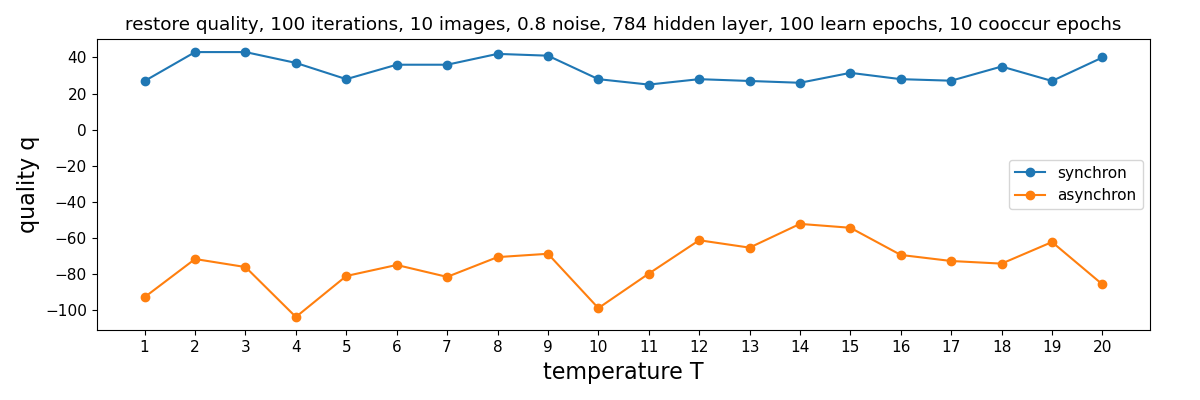
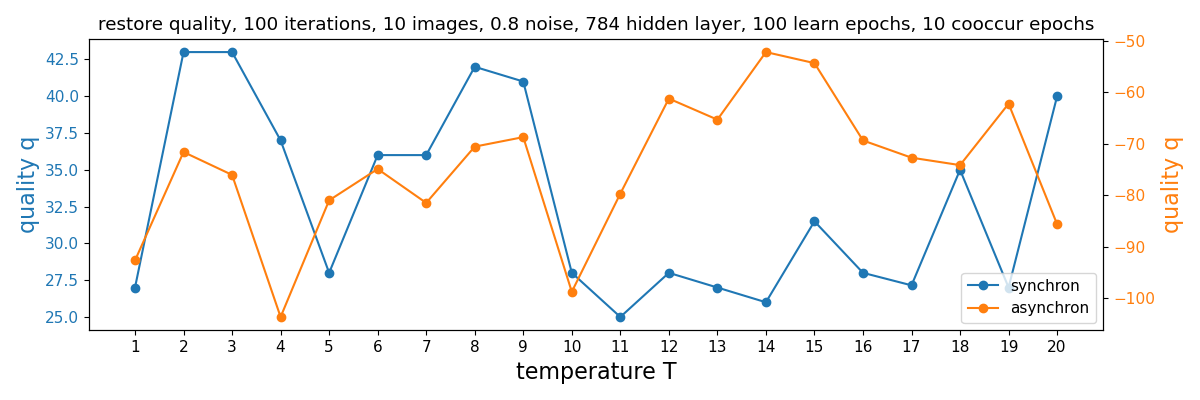
separate y-axes for temperature plot

diff --git a/mnist_restore_test.py b/mnist_restore_test.py
@@ -166,7 +166,31 @@ def plt_quality(title, xlabel, x, qualities, save_path, xticks=None, legend=None
         plt.xticks(xticks)
     plt.ylabel('quality q', fontsize=16)
     if not legend is None:
-        plt.legend(legend)
+        plt.legend(legend, loc='lower right')
+    plt.tight_layout()
+    plt.savefig(save_path + title.replace(',', '').replace(' ', '_') + '.png')
+    # plt.close()
+
+
+def plt_quality_sep_y(title, xlabel, x, qualities, save_path, xticks=None, legend=None):
+    fig = plt.figure(title.replace(',', ''), figsize=(12, 4))
+    ax1 = fig.add_subplot(111)
+    axi = None
+    for i, quality in enumerate(qualities):
+        if axi is None:
+            axi = ax1
+            plts = axi.plot(x, quality, 'o-', color=f'C{i}')
+        else:
+            axi = ax1.twinx()
+            plts = plts + axi.plot(x, quality, 'o-', color=f'C{i}')
+        axi.set_ylabel('quality q', fontsize=16, color=f'C{i}')
+        axi.tick_params(axis='y', labelcolor=f'C{i}')
+    plt.title(title)
+    ax1.set_xlabel(xlabel, fontsize=16)
+    if not xticks is None:
+        ax1.set_xticks(xticks)
+    if not legend is None:
+        ax1.legend(plts, legend, loc='lower right')
     plt.tight_layout()
     plt.savefig(save_path + title.replace(',', '').replace(' ', '_') + '.png')
     # plt.close()
@@ -216,18 +240,27 @@ def mnist_restore_test():
     quality_sync = []
     quality_async = []
     temps = np.arange(1, 21, 1)
+    scan = True # set to False if all data already exists and to just regenerate plot
     for T in temps:
         annealing = [(float(T), 100)]
         coocurance = (annealing[-1][0], 10)
         iterationslist = np.arange(10, iterations + 1, 10)
-        # just generate the intermediate plots and keep the final iterations
-        for i in iterationslist:
-            print(f'T = {T}, iterations = {i}')
-            hidden_layers, q = test_restore345(images, labels, i, num_images, annealing, coocurance, True, noise_probability, save_path)
+        if scan:
+            # just generate the intermediate plots and keep the final iterations
+            for i in iterationslist:
+                print(f'T = {T}, iterations = {i}')
+                hidden_layers, q = test_restore345(images, labels, i, num_images, annealing, coocurance, True, noise_probability, save_path)
+        else:
+            print(f'T = {T}, iterations = {iterations}')
+            hidden_layers, q = test_restore345(images, labels, iterations, num_images, annealing, coocurance, True, noise_probability, save_path)
         quality_sync.append(q)
-        for i in iterationslist:
-            print(f'T = {T}, iterations = {i}')
-            hidden_layers, q = test_restore345(images, labels, i, num_images, annealing, coocurance, False, noise_probability, save_path)
+        if scan:
+            for i in iterationslist:
+                print(f'T = {T}, iterations = {i}')
+                hidden_layers, q = test_restore345(images, labels, i, num_images, annealing, coocurance, False, noise_probability, save_path)
+        else:
+            print(f'T = {T}, iterations = {iterations}')
+            hidden_layers, q = test_restore345(images, labels, iterations, num_images, annealing, coocurance, False, noise_probability, save_path)
         quality_async.append(q)
     learn_epochs = np.sum(np.array(annealing, dtype=np.int), axis=0)[1]
     cooccur_epochs = coocurance[1]
@@ -235,7 +268,7 @@ def mnist_restore_test():
     title = f'restore quality, {iterations} iterations, {num_images} images, {noise_probability} noise, {hidden_layers} hidden layer, {learn_epochs} learn epochs, {cooccur_epochs} cooccur epochs'
     plt_quality(title + ', sync', 'temperature T', temps, [quality_sync], save_path, xticks=temps)
     plt_quality(title + ', async', 'temperature T', temps, [quality_async], save_path, xticks=temps)
-    plt_quality(title, 'temperature T', temps, [quality_sync, quality_async], save_path, xticks=temps, legend=['synchron', 'asynchron'])
+    plt_quality_sep_y(title, 'temperature T', temps, [quality_sync, quality_async], save_path, xticks=temps, legend=['synchron', 'asynchron'])
 
     # plt.show()
 

diff --git a/oliver/mnist_restore_test.py b/oliver/mnist_restore_test.py
@@ -166,7 +166,31 @@ def plt_quality(title, xlabel, x, qualities, save_path, xticks=None, legend=None
         plt.xticks(xticks)
     plt.ylabel('quality q', fontsize=16)
     if not legend is None:
-        plt.legend(legend)
+        plt.legend(legend, loc='lower right')
+    plt.tight_layout()
+    plt.savefig(save_path + title.replace(',', '').replace(' ', '_') + '.png')
+    # plt.close()
+
+
+def plt_quality_sep_y(title, xlabel, x, qualities, save_path, xticks=None, legend=None):
+    fig = plt.figure(title.replace(',', ''), figsize=(12, 4))
+    ax1 = fig.add_subplot(111)
+    axi = None
+    for i, quality in enumerate(qualities):
+        if axi is None:
+            axi = ax1
+            plts = axi.plot(x, quality, 'o-', color=f'C{i}')
+        else:
+            axi = ax1.twinx()
+            plts = plts + axi.plot(x, quality, 'o-', color=f'C{i}')
+        axi.set_ylabel('quality q', fontsize=16, color=f'C{i}')
+        axi.tick_params(axis='y', labelcolor=f'C{i}')
+    plt.title(title)
+    ax1.set_xlabel(xlabel, fontsize=16)
+    if not xticks is None:
+        ax1.set_xticks(xticks)
+    if not legend is None:
+        ax1.legend(plts, legend, loc='lower right')
     plt.tight_layout()
     plt.savefig(save_path + title.replace(',', '').replace(' ', '_') + '.png')
     # plt.close()
@@ -216,18 +240,27 @@ def mnist_restore_test():
     quality_sync = []
     quality_async = []
     temps = np.arange(1, 21, 1)
+    scan = True # set to False if all data already exists and to just regenerate plot
     for T in temps:
         annealing = [(float(T), 100)]
         coocurance = (annealing[-1][0], 10)
         iterationslist = np.arange(10, iterations + 1, 10)
-        # just generate the intermediate plots and keep the final iterations
-        for i in iterationslist:
-            print(f'T = {T}, iterations = {i}')
-            hidden_layers, q = test_restore345(images, labels, i, num_images, annealing, coocurance, True, noise_probability, save_path)
+        if scan:
+            # just generate the intermediate plots and keep the final iterations
+            for i in iterationslist:
+                print(f'T = {T}, iterations = {i}')
+                hidden_layers, q = test_restore345(images, labels, i, num_images, annealing, coocurance, True, noise_probability, save_path)
+        else:
+            print(f'T = {T}, iterations = {iterations}')
+            hidden_layers, q = test_restore345(images, labels, iterations, num_images, annealing, coocurance, True, noise_probability, save_path)
         quality_sync.append(q)
-        for i in iterationslist:
-            print(f'T = {T}, iterations = {i}')
-            hidden_layers, q = test_restore345(images, labels, i, num_images, annealing, coocurance, False, noise_probability, save_path)
+        if scan:
+            for i in iterationslist:
+                print(f'T = {T}, iterations = {i}')
+                hidden_layers, q = test_restore345(images, labels, i, num_images, annealing, coocurance, False, noise_probability, save_path)
+        else:
+            print(f'T = {T}, iterations = {iterations}')
+            hidden_layers, q = test_restore345(images, labels, iterations, num_images, annealing, coocurance, False, noise_probability, save_path)
         quality_async.append(q)
     learn_epochs = np.sum(np.array(annealing, dtype=np.int), axis=0)[1]
     cooccur_epochs = coocurance[1]
@@ -235,7 +268,7 @@ def mnist_restore_test():
     title = f'restore quality, {iterations} iterations, {num_images} images, {noise_probability} noise, {hidden_layers} hidden layer, {learn_epochs} learn epochs, {cooccur_epochs} cooccur epochs'
     plt_quality(title + ', sync', 'temperature T', temps, [quality_sync], save_path, xticks=temps)
     plt_quality(title + ', async', 'temperature T', temps, [quality_async], save_path, xticks=temps)
-    plt_quality(title, 'temperature T', temps, [quality_sync, quality_async], save_path, xticks=temps, legend=['synchron', 'asynchron'])
+    plt_quality_sep_y(title, 'temperature T', temps, [quality_sync, quality_async], save_path, xticks=temps, legend=['synchron', 'asynchron'])
 
     # plt.show()
 

diff --git a/paper/boltzmann_machine_paper.tex b/paper/boltzmann_machine_paper.tex
@@ -583,10 +583,10 @@ Having seen a good result from the experiment with 10 images in \cref{subsec:rec
 
 \begin{figure}[b!]
 	\begin{center}
-	\begin{overpic}[trim={0cm 0cm 0cm 0cm},clip,width=\textwidth]{src/test_restore_quality_10_images_vary_epochs}
-		\put (0,30) {a)}
+	\begin{overpic}[trim={0.1cm 0cm -1.8cm 0cm},clip,width=\textwidth]{src/test_restore_quality_10_images_vary_epochs}
+		\put (0,28) {a)}
 	\end{overpic}
-	\begin{overpic}[trim={0.1cm 0cm 1.2cm 0cm},clip,width=\textwidth]{src/test_restore_quality_10_images_vary_temperature}
+	\begin{overpic}[trim={0.1cm 0cm 0.4cm 0cm},clip,width=\textwidth]{src/test_restore_quality_10_images_vary_temperature}
 		\put (0,30) {b)}
 	\end{overpic}
 	%\includegraphics[trim={0cm 0cm 0cm 0cm},clip,width=\textwidth]{src/test_restore_quality_10_images_vary_epochs}
